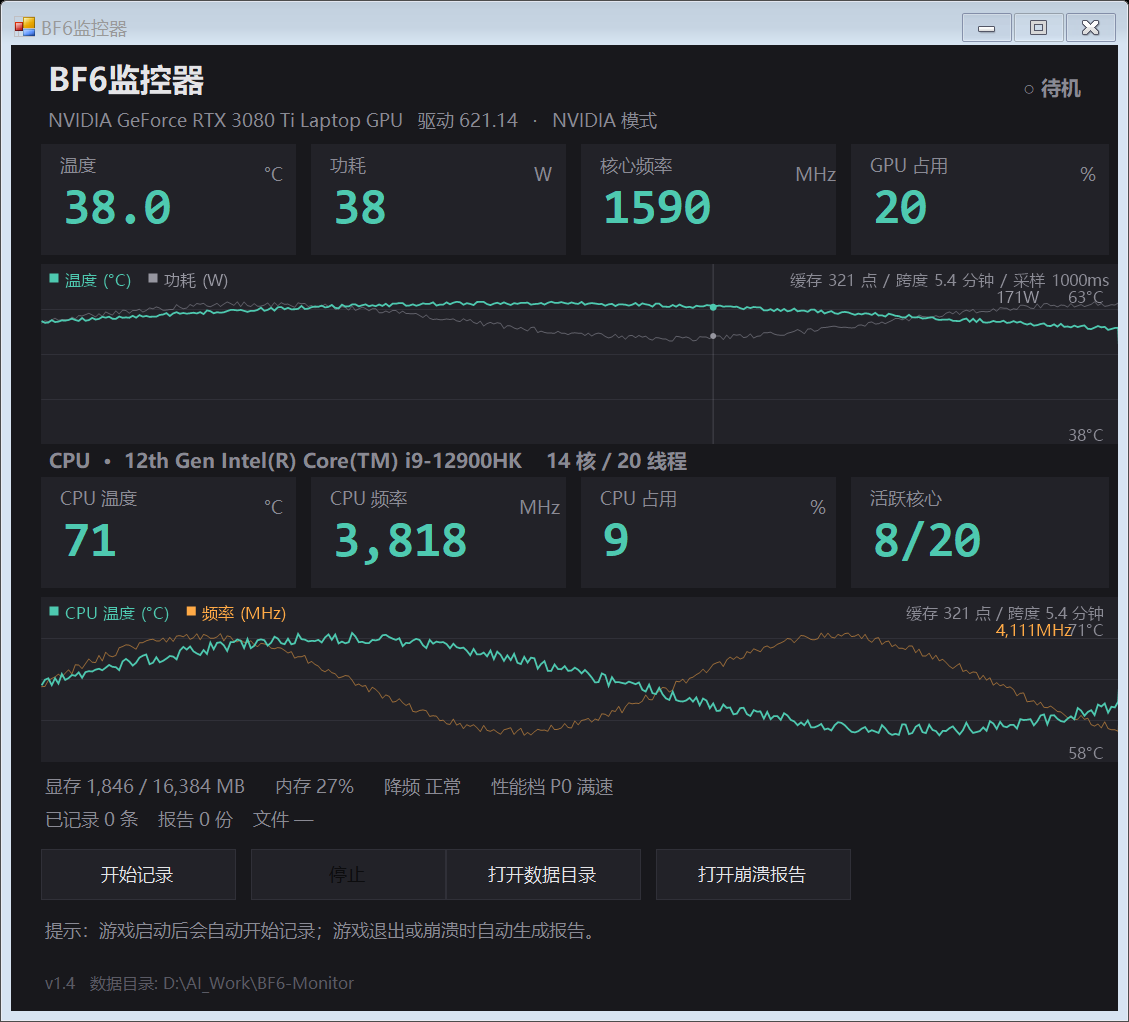
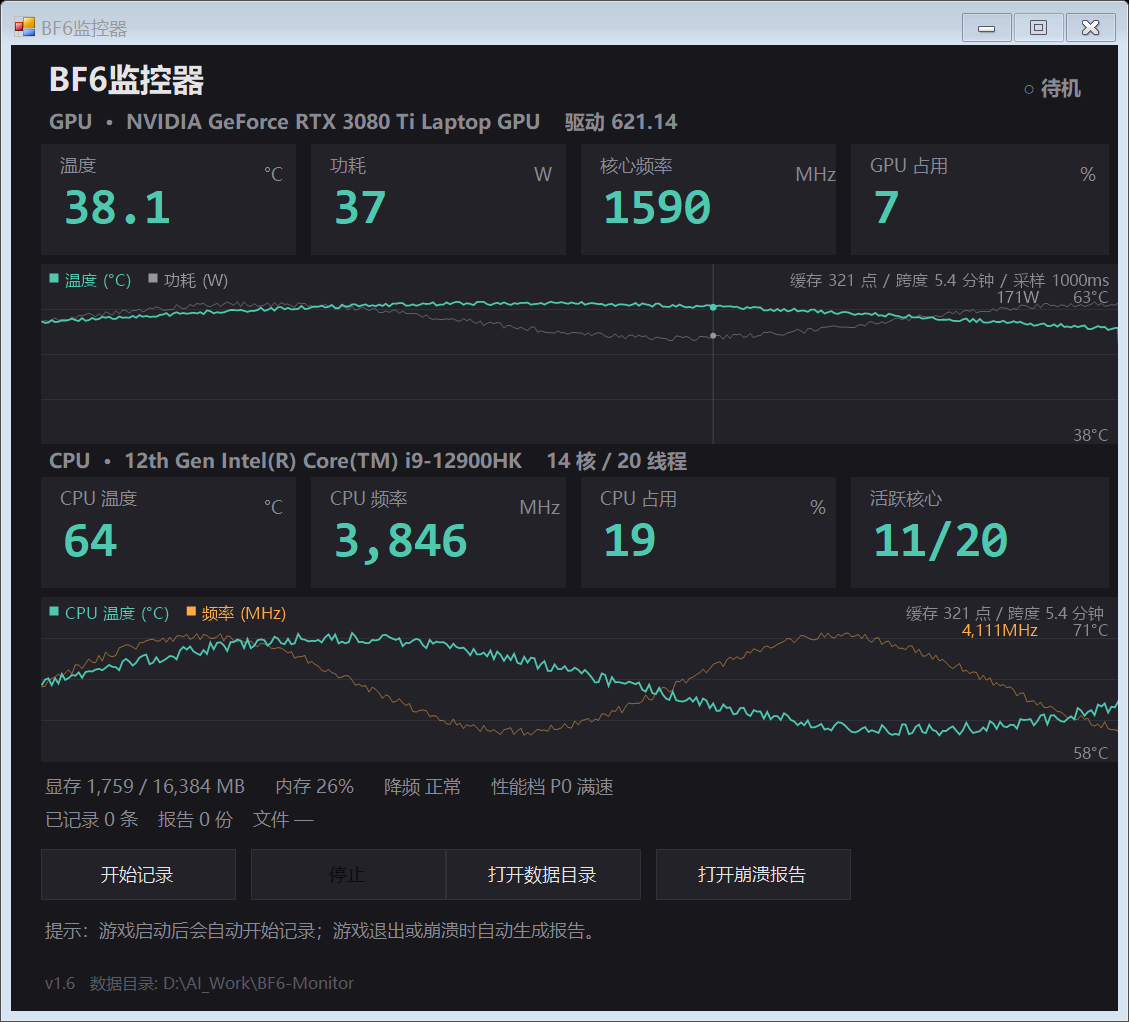
style: v1.6 - GPU 标题与 CPU 标题对齐，图表刻度标签自适应
- GPU 标题改为『GPU · 型号   驱动 xxx』，与 CPU 标题同字号同粗细
- 曲线图右侧刻度按 MeasureString 宽度排布，高 DPI 下不再重叠

diff --git a/ChartRenderer.cs b/ChartRenderer.cs
@@ -135,10 +135,15 @@ public static class ChartRenderer
                 }
             }
 
-            // 右侧刻度
-            g.DrawString(string.Format("{0:N0}{1}", maxA, unitA), font, brushDim, w - 56f, 22f);
-            g.DrawString(string.Format("{0:N0}{1}", minA, unitA), font, brushDim, w - 56f, h - 20f);
-            g.DrawString(string.Format("{0:N0}{1}", maxB, unitB), font, brushB, w - 128f, 22f);
+            // 右侧刻度（按实际文字宽度排布，DPI 放大后也不会重叠）
+            string sMaxA = string.Format("{0:N0}{1}", maxA, unitA);
+            string sMinA = string.Format("{0:N0}{1}", minA, unitA);
+            string sMaxB = string.Format("{0:N0}{1}", maxB, unitB);
+            float wMaxA = g.MeasureString(sMaxA, font).Width;
+            float wMaxB = g.MeasureString(sMaxB, font).Width;
+            g.DrawString(sMaxA, font, brushDim, w - wMaxA - 8f, 22f);
+            g.DrawString(sMinA, font, brushDim, w - wMaxA - 8f, h - 20f);
+            g.DrawString(sMaxB, font, brushB, w - wMaxA - wMaxB - 34f, 22f);
         }
     }
 }
